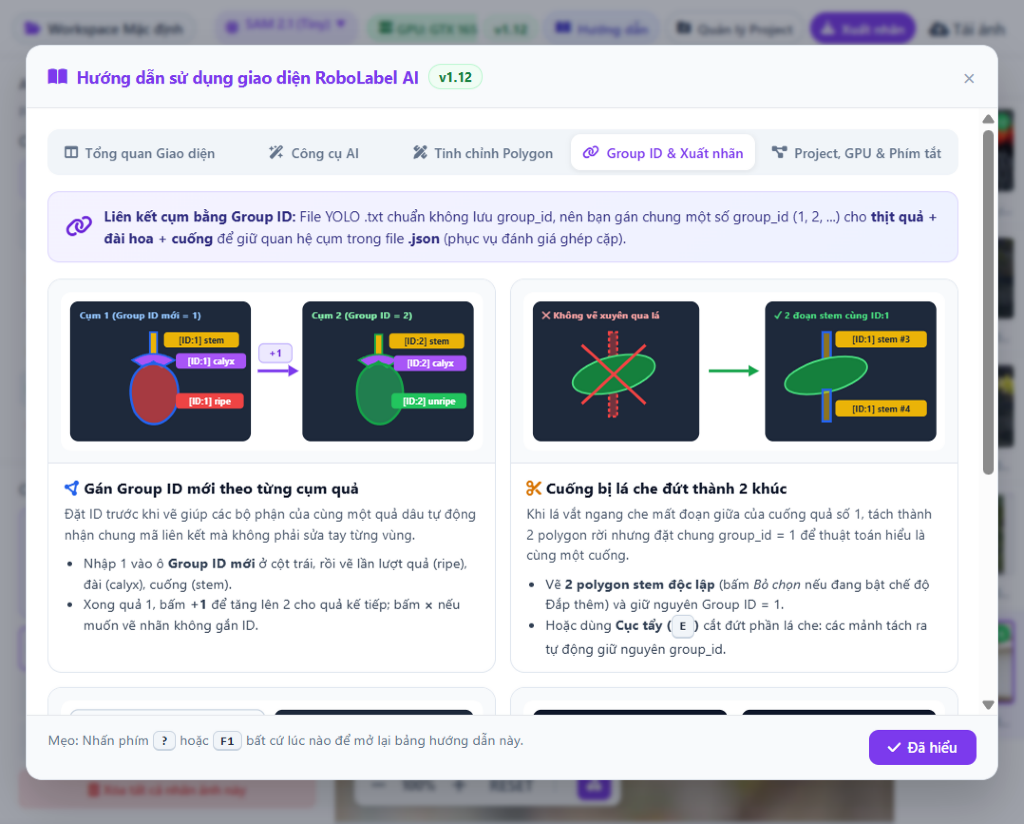
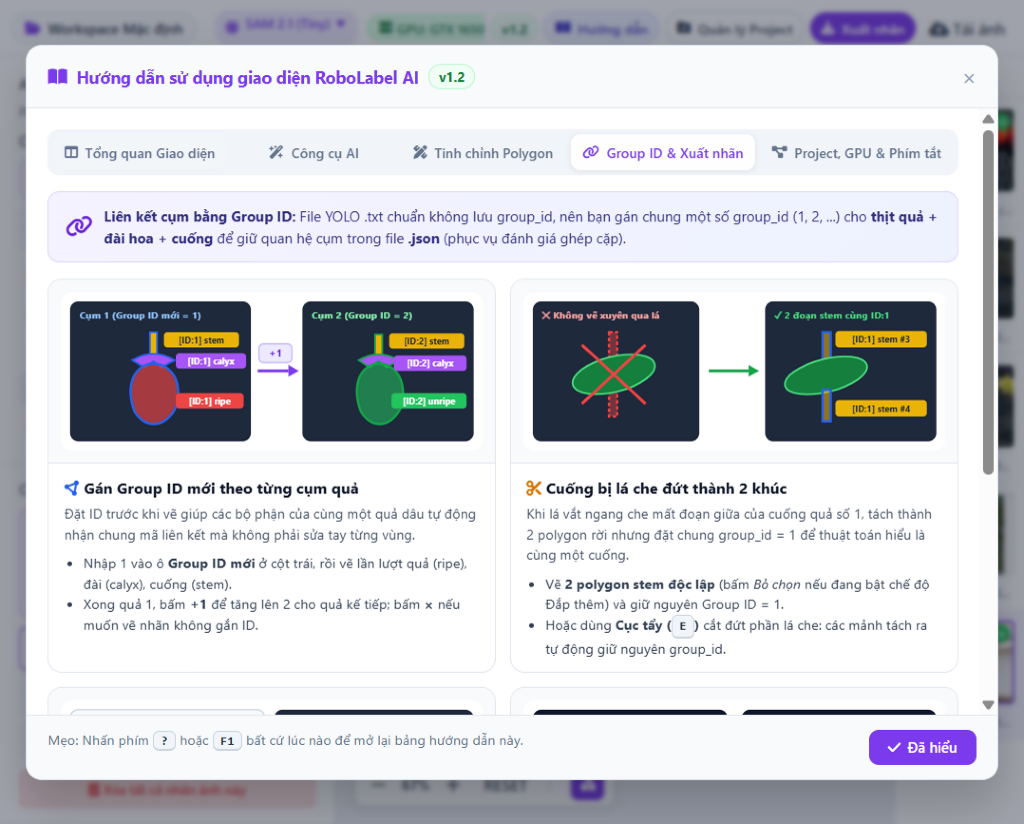
Docs & UI: Refresh all 4 guide screenshots and overview diagram with v1.2 badge

Changed region(s): [[0.3125, 0.9405, 0.875, 1.0], [0.4688, 0.0303, 0.5, 0.0607], [0.4375, 0.091, 0.4688, 0.1214]]

diff --git a/static/index.html b/static/index.html
@@ -2092,6 +2092,8 @@
               <text x="274" y="29" text-anchor="middle" font-size="9.5" font-weight="700" fill="#15803d">GPU / CPU</text>
               <rect x="328" y="13" width="82" height="24" rx="12" fill="#dcfce7"/>
               <text x="369" y="29" text-anchor="middle" font-size="9" font-weight="700" fill="#15803d">Đã lưu tự động</text>
+              <rect x="480" y="15" width="38" height="20" rx="10" fill="#dcfce7" stroke="#86efac"/>
+              <text x="499" y="28" text-anchor="middle" font-size="9" font-weight="800" fill="#15803d">v1.2</text>
               <rect x="524" y="13" width="66" height="24" rx="12" fill="#eef2ff" stroke="#c7d2fe"/>
               <text x="557" y="29" text-anchor="middle" font-size="9.5" font-weight="700" fill="#4338ca">Hướng dẫn</text>
               <rect x="596" y="13" width="92" height="24" rx="12" fill="#ffffff" stroke="#cbd5e1"/>
